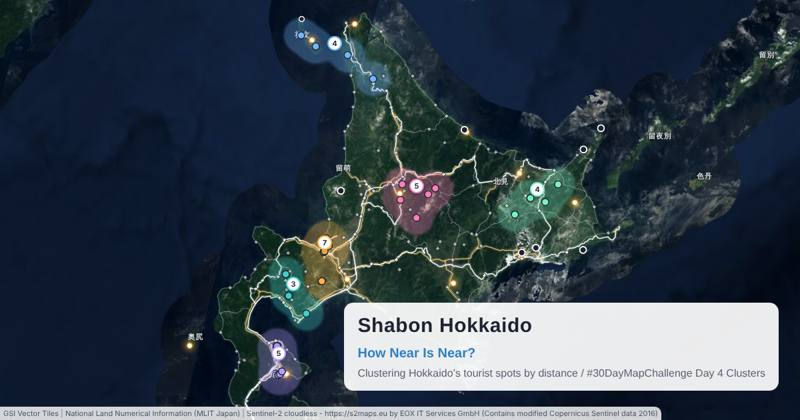
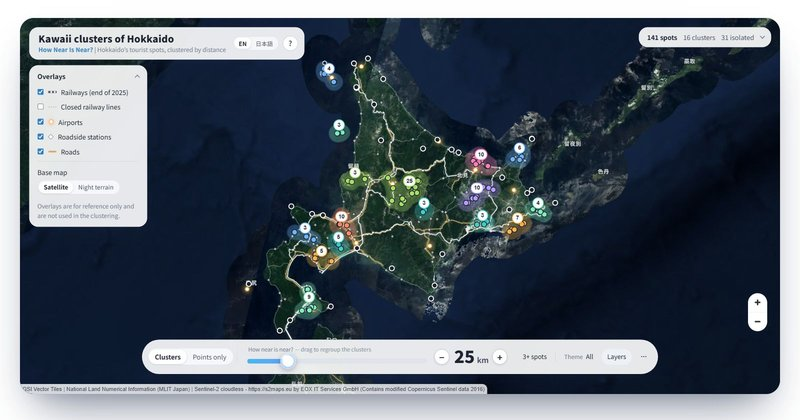
Update Day 4 title, live screenshot, and map attribution

diff --git a/CREDITS.md b/CREDITS.md
@@ -1,8 +1,8 @@
 # Credits
 
 - Challenge themes: [30DayMapChallenge](https://30daymapchallenge.com/#2026-themes). Theme names and independently written Japanese summaries; this is an individual participant's portfolio.
-- Screenshots: Shinya Nakashima's original apps. `clusters.jpg` from `30daymapchallenge-2026day4-clusters/public/og.png`; `senses-cinema.jpg` from `30daymapchallenge-2026day5-senses-cinema/public/og.png`; `tokyo-zine.jpg` from `30daymapchallenge-2026day6-tokyo-zine/docs/screen-desktop.png` (retrieved 2026-11-04).
-- Shabon Hokkaido: processed MLIT National Land Numerical Information tourism data (2014), noncommercial terms. The screenshot does not change these conditions.
+- Screenshots: Shinya Nakashima's original apps. `clusters.jpg` captured from https://shinyanakashima.github.io/30daymapchallenge-2026day4-clusters/; `senses-cinema.jpg` from `30daymapchallenge-2026day5-senses-cinema/public/og.png`; `tokyo-zine.jpg` from `30daymapchallenge-2026day6-tokyo-zine/docs/screen-desktop.png` (retrieved 2026-11-04).
+- Kawaii clusters of Hokkaido: processed MLIT National Land Numerical Information tourism data (2010 / 2014), noncommercial terms. The screenshot also shows Sentinel-2 cloudless - https://s2maps.eu by EOX IT Services GmbH (Contains modified Copernicus Sentinel data 2016), CC BY 4.0, and GSI Vector Tiles. The screenshot does not change these conditions.
 - Cinema: Statistics Bureau of Japan, 2021 Survey on Time Use and Leisure Activities; prefecture geometry credits and processing in the linked app's README.
 - Tokyo Zine: USGS/NASA Landsat 5 TM image (1987-05-21), public domain. Screenshot includes the app's original graphic design.
 - Noto Sans JP: Google Fonts, SIL Open Font License 1.1. Loaded as an optional stylesheet; system fonts work without it.

diff --git a/docs/2026-plan.md b/docs/2026-plan.md
@@ -34,9 +34,9 @@
 
 **テーマの意味**：密集やまとまり、集まるものを描く
 
-**企画・進捗**：採用・公開済み。北海道の観光資源を地理的距離でクラスタリングするShabon Hokkaido。実際の交通アクセスや回遊実績とは区別する。
+**企画・進捗**：採用・公開済み。北海道の観光資源を地理的距離でクラスタリングし、まとまりをしゃぼん玉として描く「Kawaii clusters of Hokkaido」。実際の交通アクセスや回遊実績とは区別する。
 
-- **Shabon Hokkaido**（公開済み）：どこまでが近所？ 距離を変えると、観光地のまとまりがくっつき、分かれる。 [作品を見る](https://shinyanakashima.github.io/30daymapchallenge-2026day4-clusters/) [GitHub](https://github.com/shinyanakashima/30daymapchallenge-2026day4-clusters)
+- **Kawaii clusters of Hokkaido**（公開済み）：How Near Is Near? 距離を変えると、観光地のまとまりがしゃぼん玉のようにくっつき、分かれる。 [作品を見る](https://shinyanakashima.github.io/30daymapchallenge-2026day4-clusters/) [GitHub](https://github.com/shinyanakashima/30daymapchallenge-2026day4-clusters)
 
 ## Day 5 Senses: Sight
 
